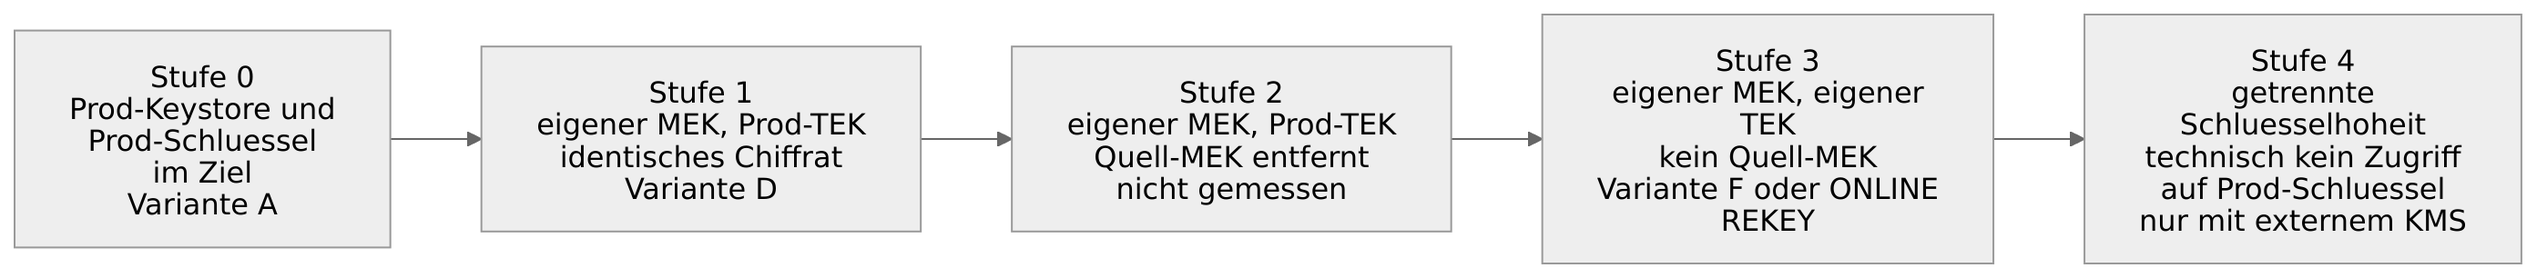
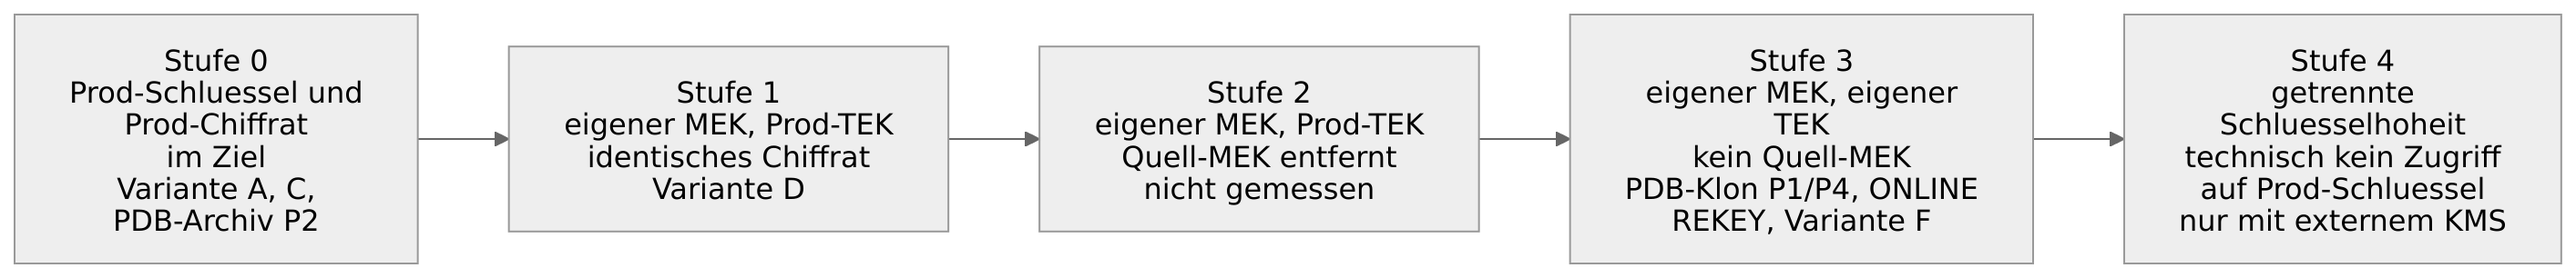
docs(images): re-render the diagrams after the architecture update

diff --git a/doc/images/mermaid/README.md b/doc/images/mermaid/README.md
@@ -12,6 +12,6 @@ the source of truth is the Mermaid block in the markdown file listed below.
 | `tde-key-architecture.md` | 4 | Read-only-Tablespaces | `tde-key-architecture-04.png` |
 | `tde-key-architecture.md` | 5 | UNITED gegen ISOLATED | `tde-key-architecture-05.png` |
 | `tde-key-architecture.md` | 6 | Keystore-Portabilitaet | `tde-key-architecture-06.png` |
-| `tde-key-architecture.md` | 7 | Die Varianten im Vergleich | `tde-key-architecture-07.png` |
+| `tde-key-architecture.md` | 7 | Der Kontrast D gegen F belegt die dritte Ebene | `tde-key-architecture-07.png` |
 | `tde-key-architecture.md` | 8 | Stufenmodell der kryptografischen Unabhaengigkeit | `tde-key-architecture-08.png` |
 | `tde-okv-argumentation.md` | 1 | Die Angriffskette | `tde-okv-argumentation-01.png` |
